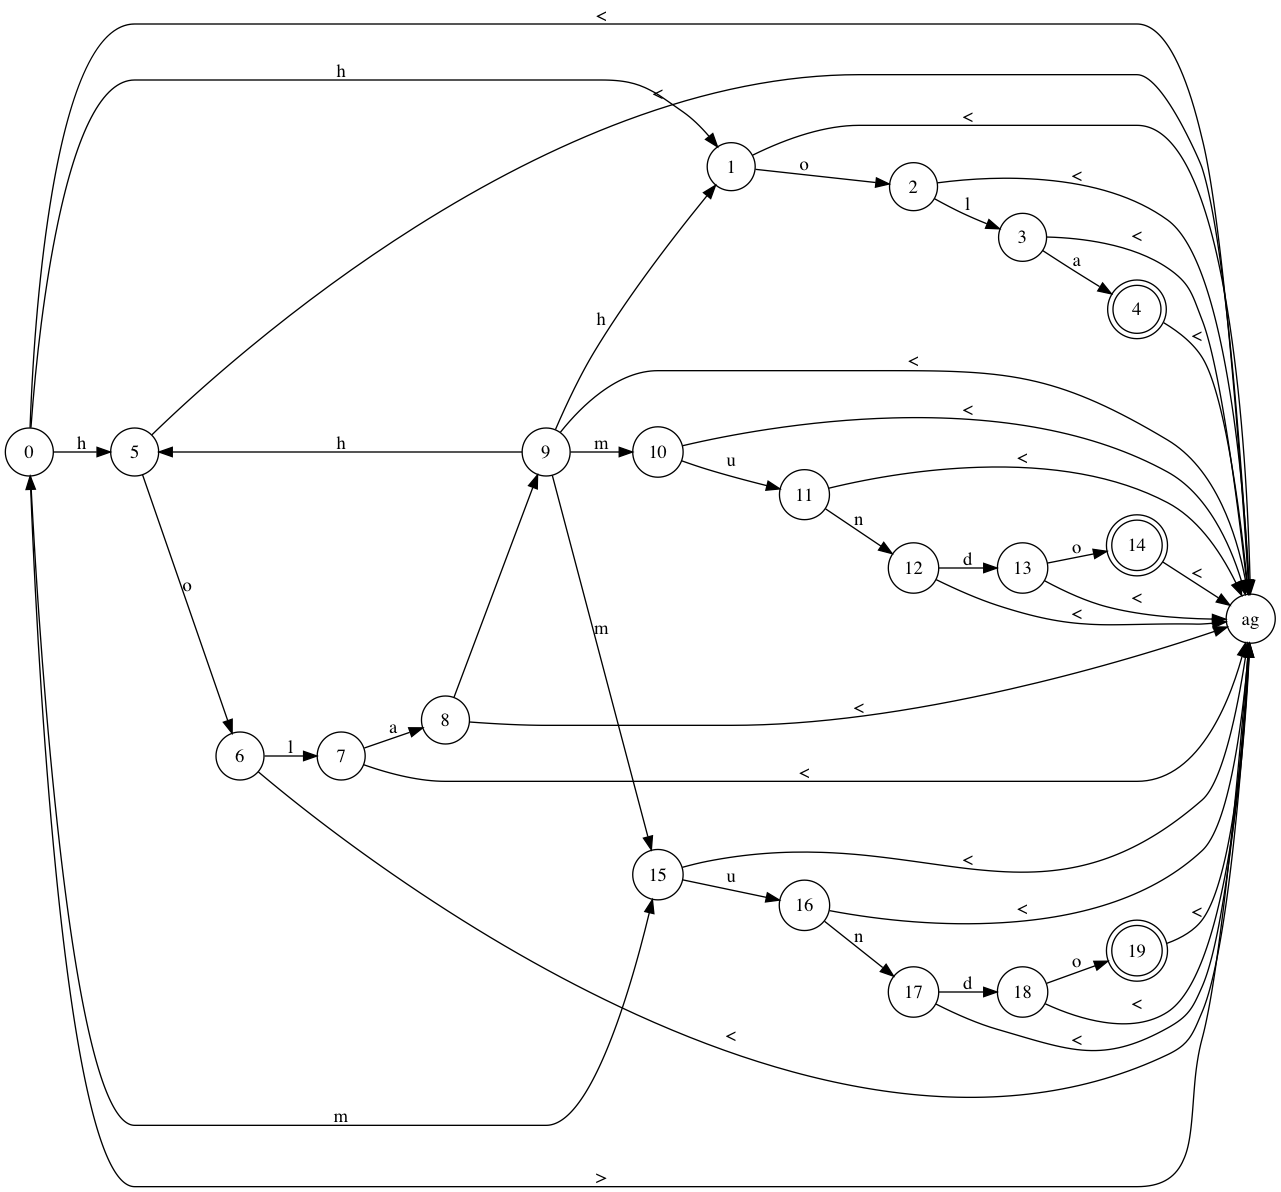
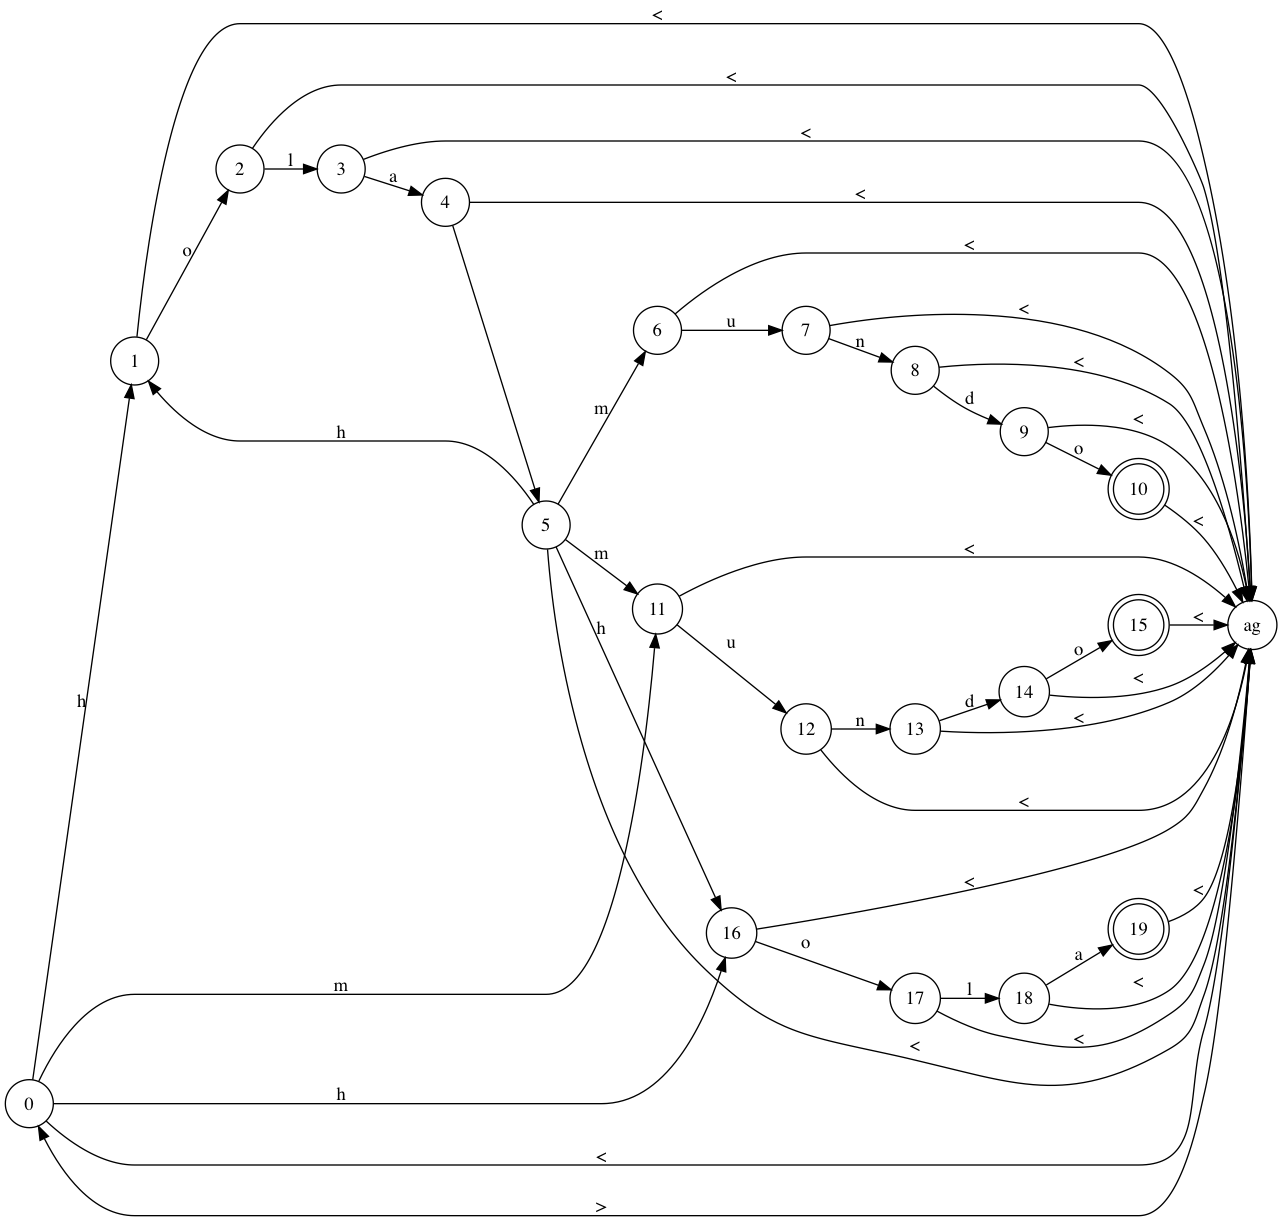
Fixed bug which makes sure word is complete

diff --git a/test.html b/test.html
@@ -1,1 +1,1 @@
-<hola hola mundo>hola hola mundo mundo<mundo>
+<h>holan hola mundo mundo<mundo>

diff --git a/src/WordDetectionAutomaton.java b/src/WordDetectionAutomaton.java
@@ -120,7 +120,7 @@ class WordDetectionAutomaton {
                     determinState.addNewTransition(transitions.getKey(), combinedState);
                 } else {
                     String nameOfNewState = nameOfNewStates.get(transitions.getKey());
-                    State newState = State.createNormalState(nameOfNewState, initialState, htmlState);
+                    State newState = State.createNormalState(nameOfNewState, determinInit, htmlState);
                     determinState.addNewTransition(transitions.getKey(), newState);
                     makeDeterministic(newState, states, determinInit, htmlState);
                 }
@@ -202,15 +202,21 @@ class WordDetectionAutomaton {
         }
 
         currentState = initialState;
-        for (char character : array) {
 
+        int i = 0;
+
+        while(i < array.length){
+            char character = array[i];
             List<State> listOfStates= currentState.getTransitionStates(character);
             //asumo que estoy llamando al metodo con un automata determinista
             currentState = listOfStates.get(0);
 
-            if(currentState.isEndingState()){
-                List<String> words = currentState.getEndingWords();
-                for (String word : words) {
+            List<String> endingWords = currentState.getEndingWords();
+
+            //Si es un estado de aceptacion, y termina la palabra se agrega su frequency
+            i++;
+            if(i == array.length || array[i] == ' ' || (!Character.isDigit(array[i]) && !Character.isLetter(array[i])) ){
+                for (String word : endingWords) {
                     frequencies.put(word,frequencies.get(word) + 1);
                 }
             }

diff --git a/src/Main.java b/src/Main.java
@@ -11,7 +11,7 @@ public class Main {
 
     public static void main(String[] args) throws IOException {
         List<String> phrases = readSearch(args);
-        //List<String> phrases = Arrays.asList("hola", "hola mundo","mundo" );
+//        List<String> phrases = Arrays.asList("hola mundo","mundo","hola" );
         WordDetectionAutomaton nonDet = new WordDetectionAutomaton(phrases);
         WordDetectionAutomaton deterministic = nonDet.createDeterministic();
 
